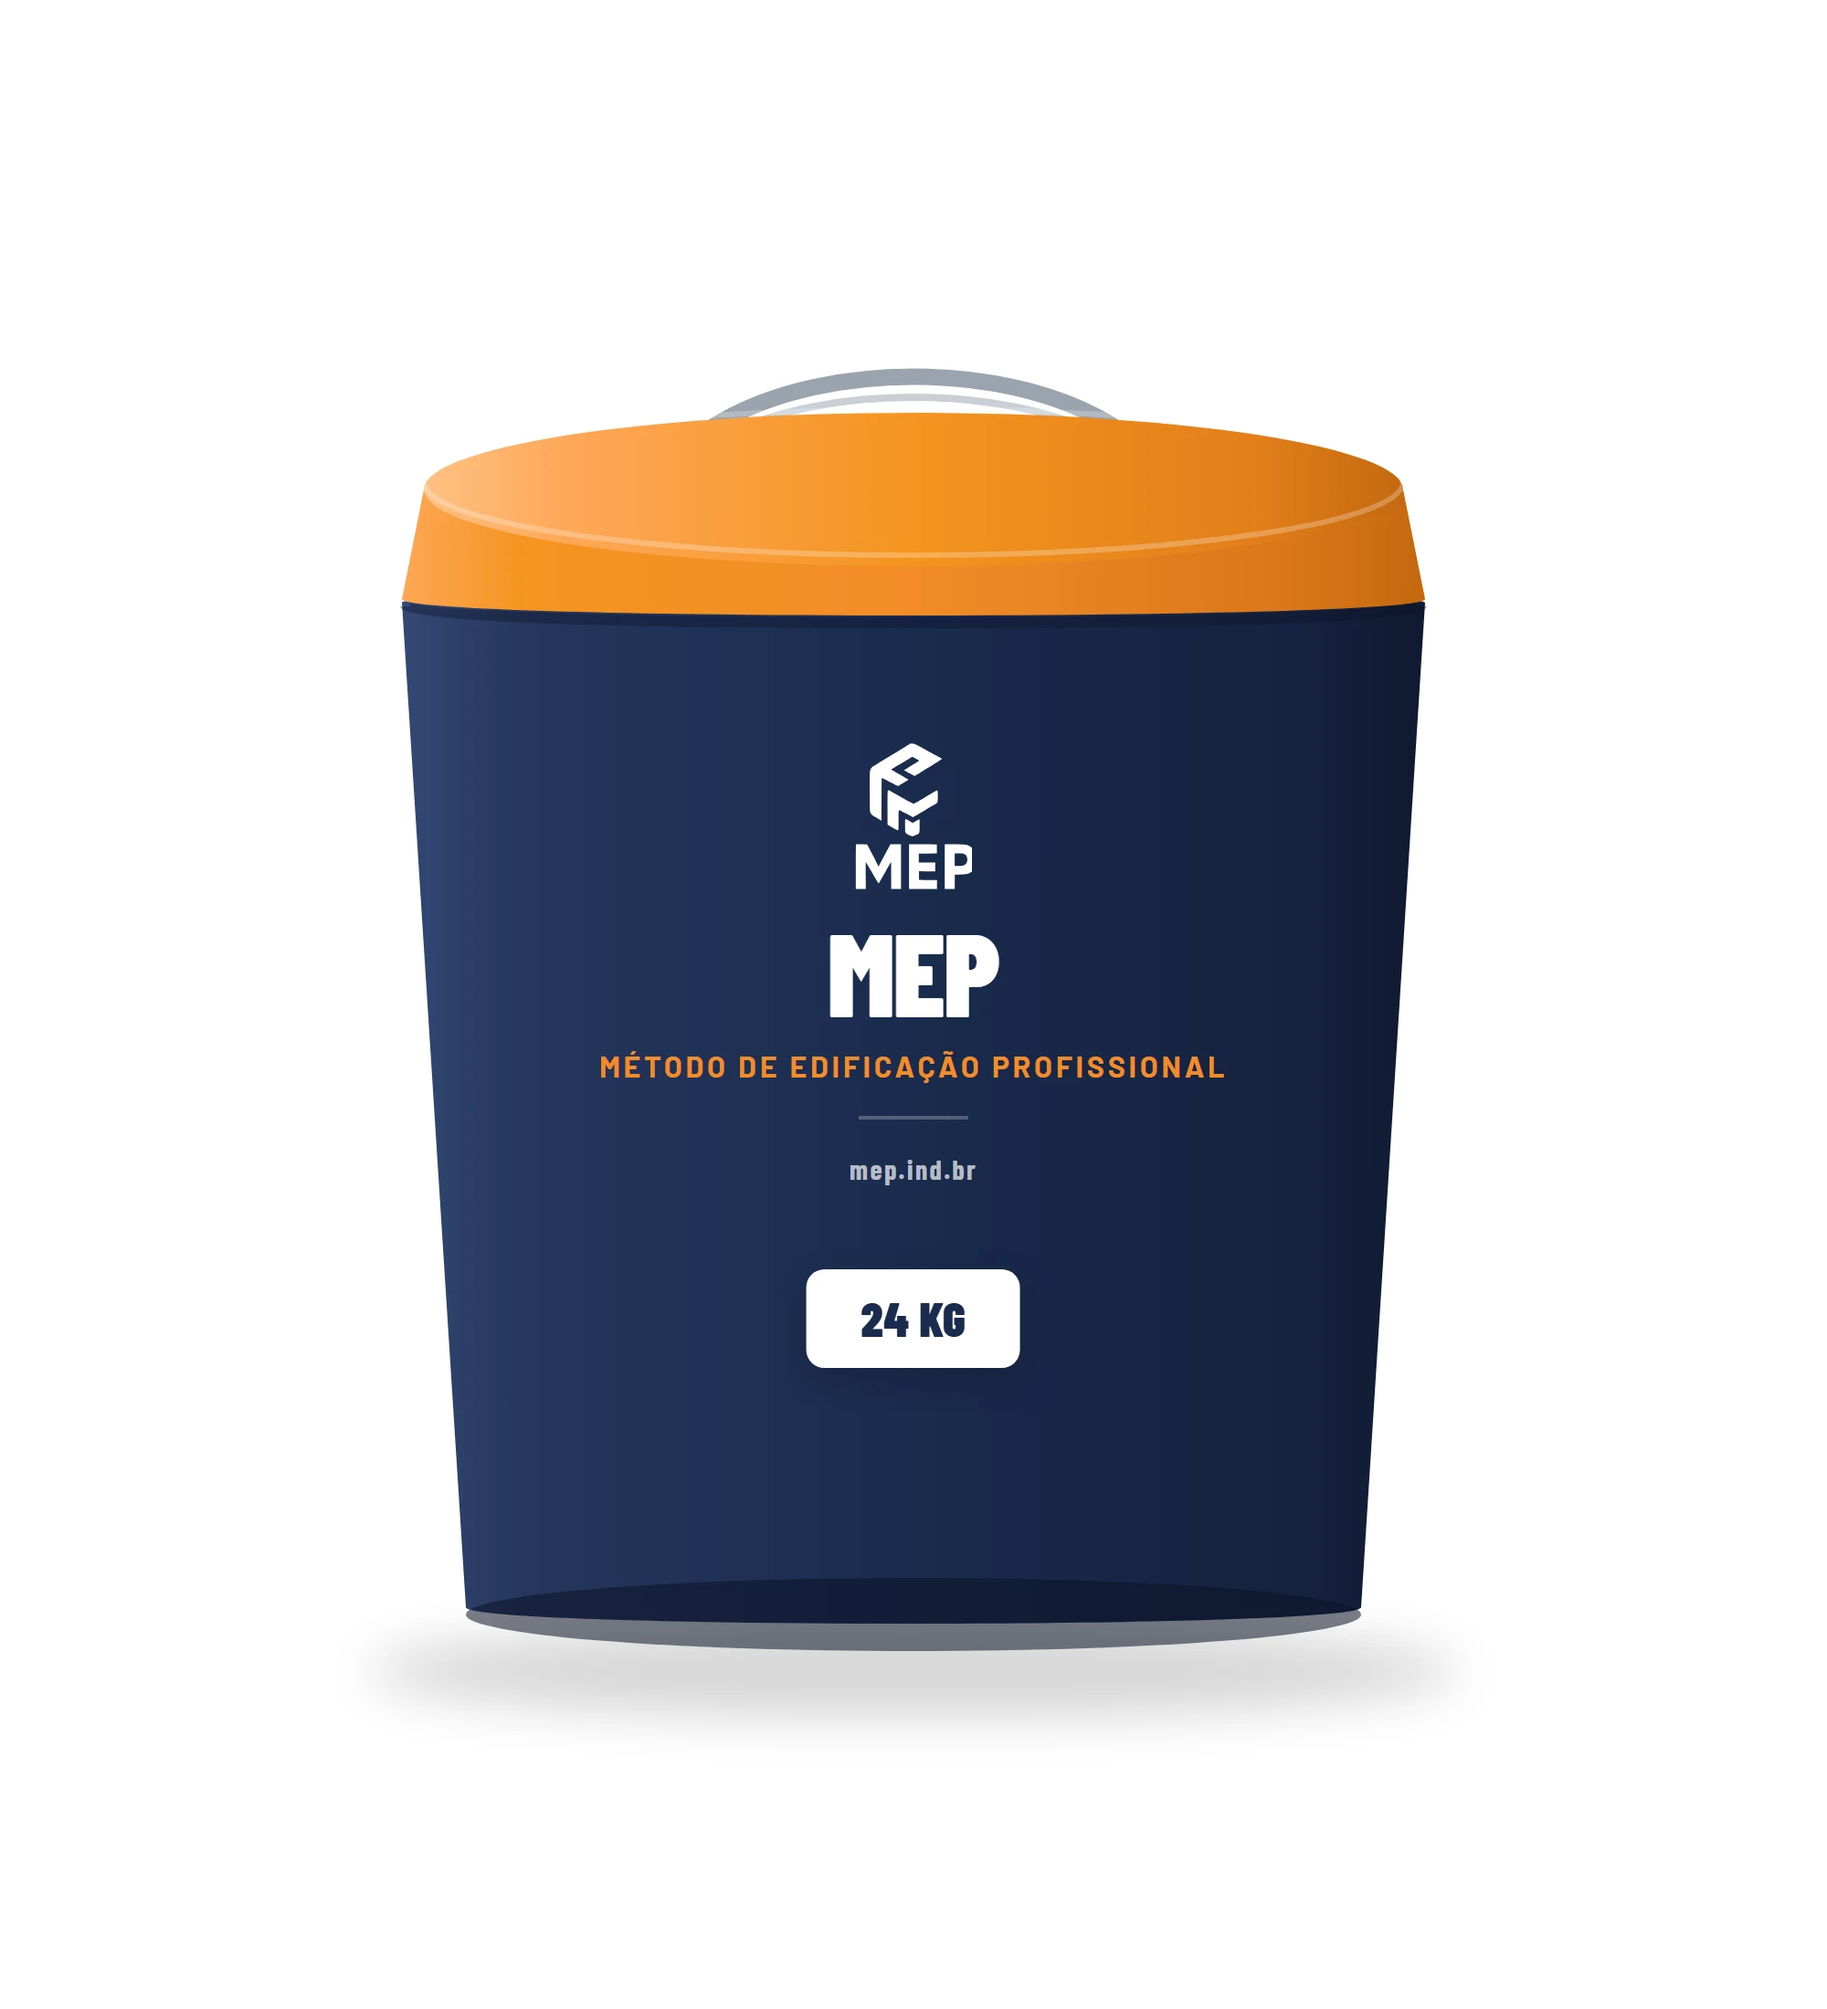
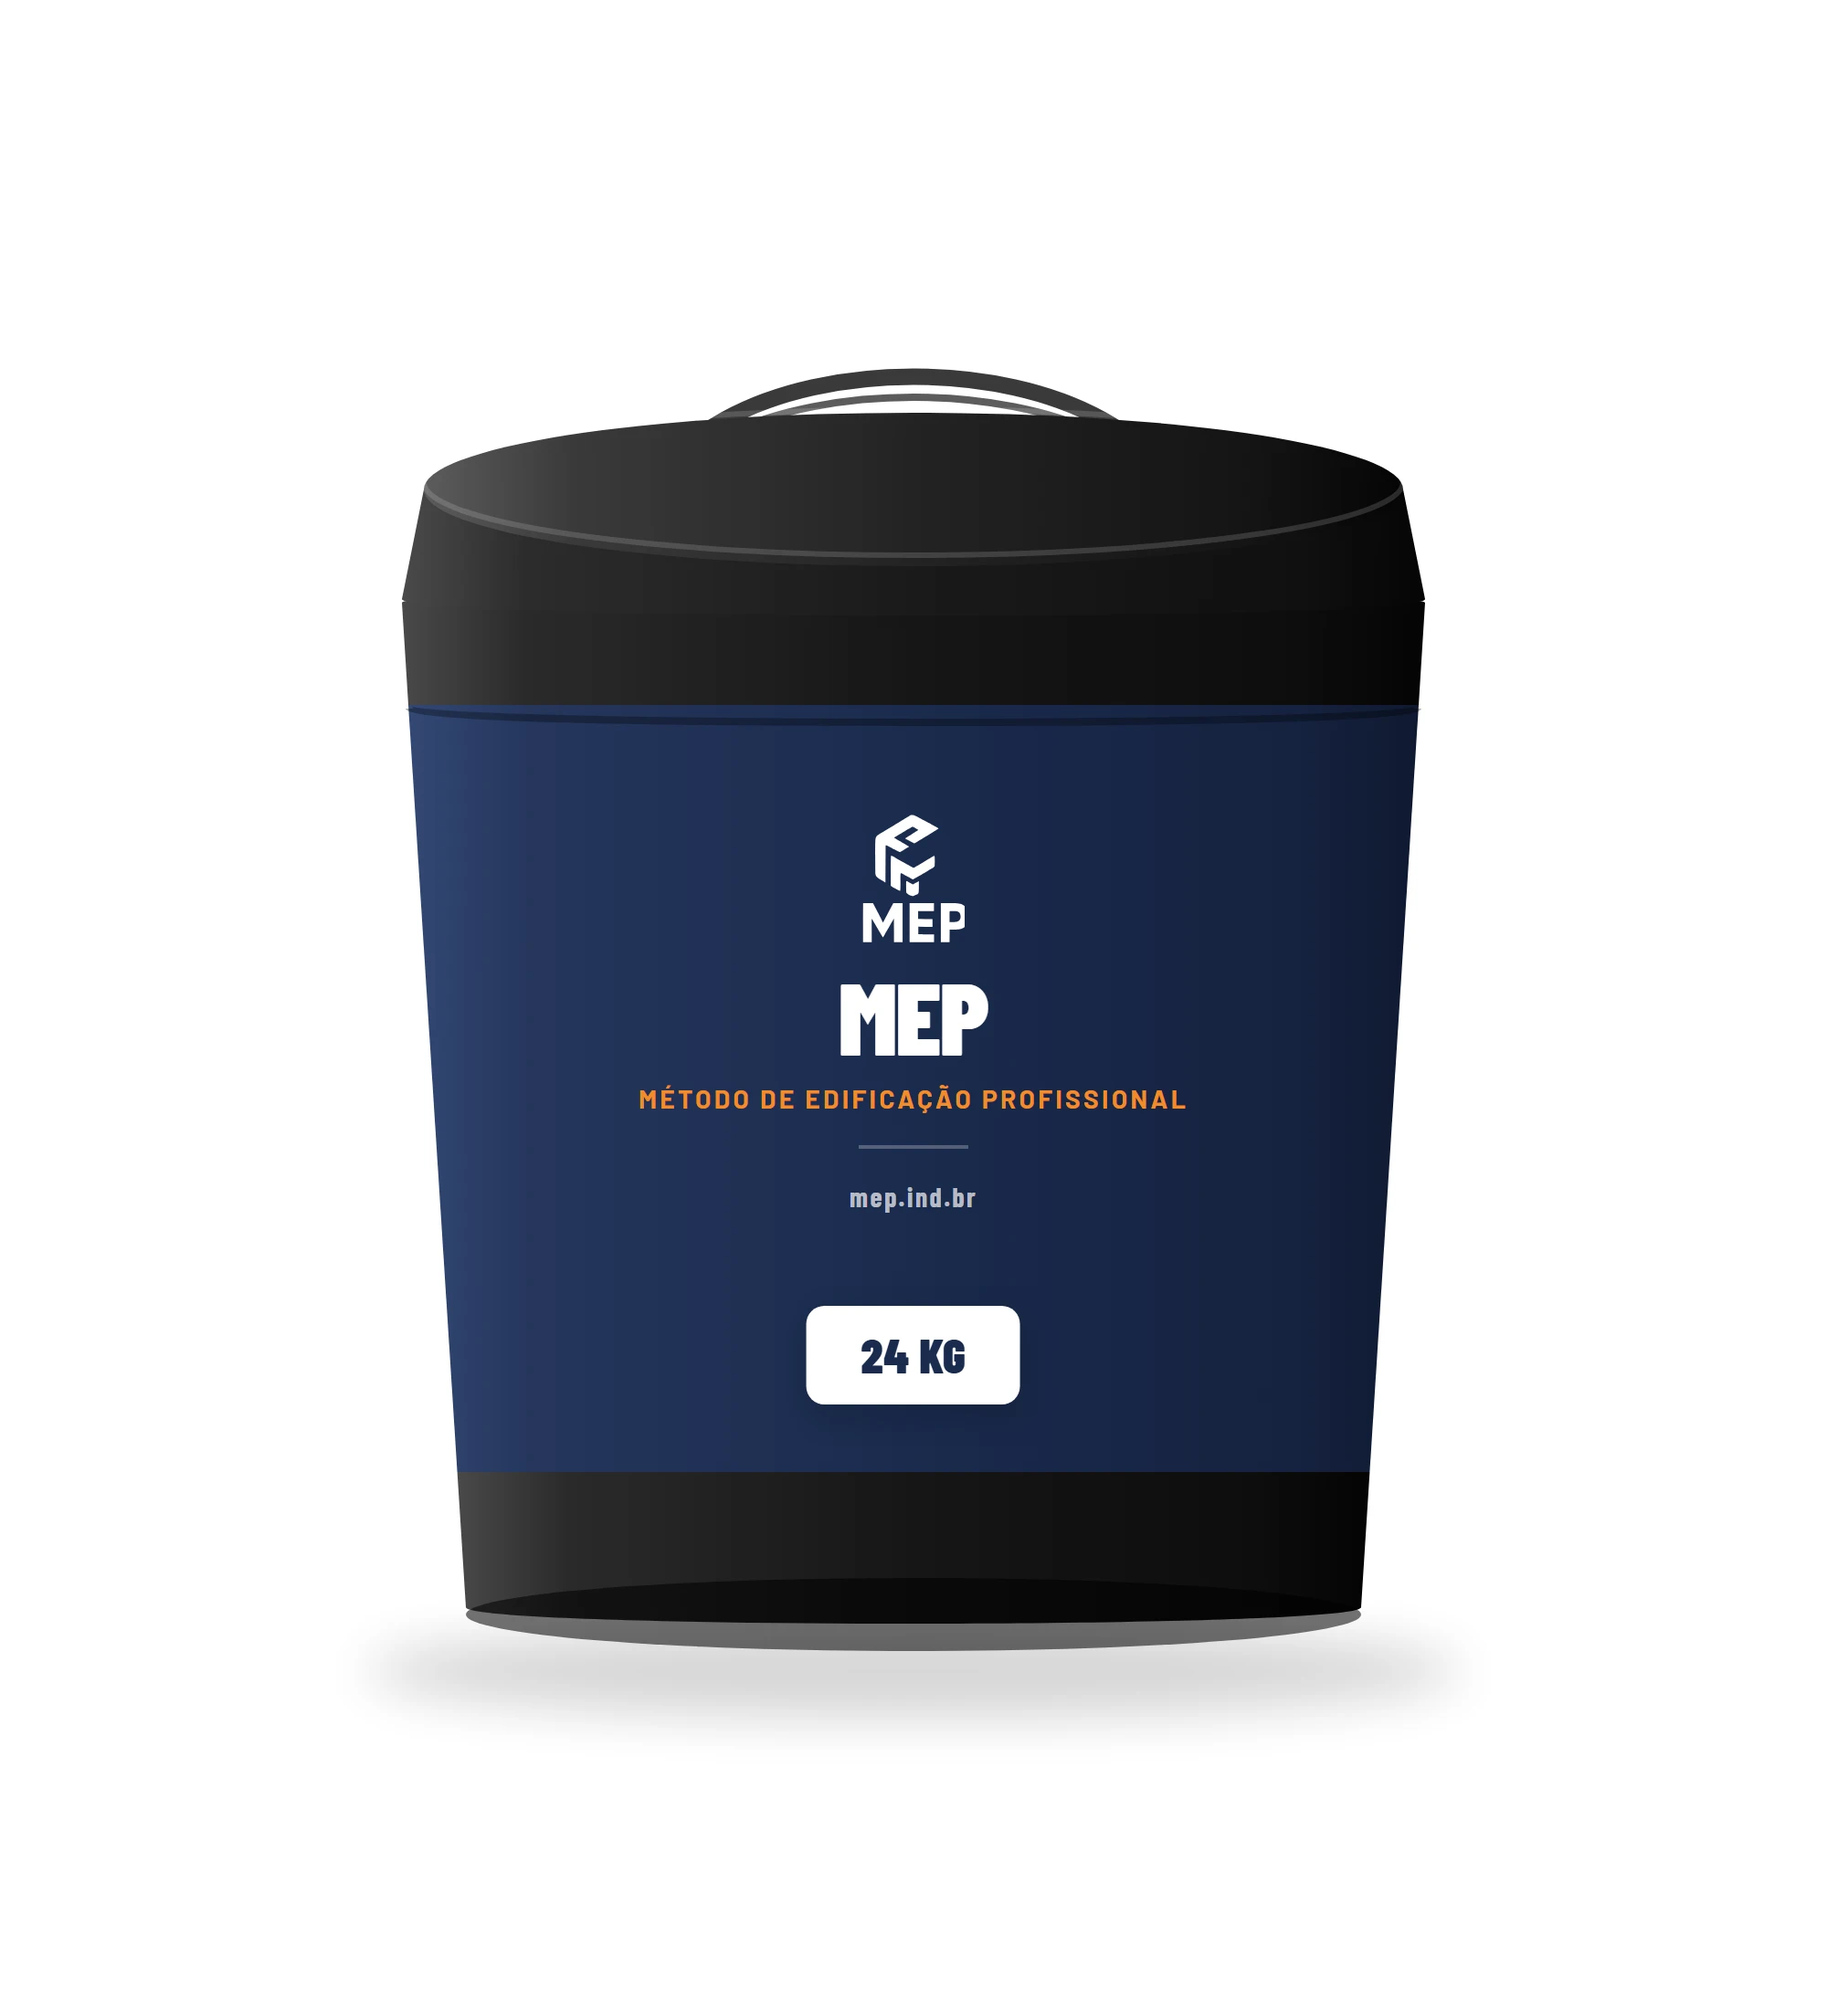
Corrige cor do balde nas fotos de produto: plastico preto, nao azul/laranja
Prova de grafica real do balde 14L mostrou que o balde fisico e todo preto
(tampa e corpo) — a cor navy e laranja e so do rotulo impresso, enrolado
na faixa central. Ajusta o render pra refletir isso com fidelidade.

Changed region(s): [[0.217, 0.1855, 0.806, 0.8345]]

diff --git a/docs/index.html b/docs/index.html
@@ -165,7 +165,7 @@
       "description": "Fabricante de argamassa polimérica pronta para uso e linha de tintas MEP COLOR para construção civil. 4x mais rápida, 40% mais econômica que a argamassa convencional.",
       "url": "https://www.mep.ind.br",
       "logo": "https://www.mep.ind.br/logo-mep.svg",
-      "image": "https://www.mep.ind.br/balde-25kg-v2.png.png?v=2",
+      "image": "https://www.mep.ind.br/balde-25kg-v2.png.png?v=3",
       "telephone": "+55-47-98851-5506",
       "email": "contato@mep.ind.br",
       "address": {
@@ -1055,7 +1055,7 @@ footer { background:var(--azul2); color:rgba(255,255,255,0.55); }
     </div>
     <div class="hero-visual">
       <div class="hero-visual-glow"></div>
-      <img src="barrica-25kg.webp?v=2" alt="Massa MEP — Barrica 24kg">
+      <img src="barrica-25kg.webp?v=3" alt="Massa MEP — Barrica 24kg">
     </div>
   </div>
 </div>
@@ -1097,7 +1097,7 @@ footer { background:var(--azul2); color:rgba(255,255,255,0.55); }
         </div>
         <div class="slb1-img">
           <div class="slb1-glow"></div>
-          <img src="barrica-25kg.webp?v=2" alt="MEP Massas — Barrica 24kg">
+          <img src="barrica-25kg.webp?v=3" alt="MEP Massas — Barrica 24kg">
           <div class="slb1-badge">Rende<strong>25 m²</strong>por barrica</div>
         </div>
       </div>
@@ -1243,7 +1243,7 @@ footer { background:var(--azul2); color:rgba(255,255,255,0.55); }
 
       <div class="produto-card">
         <div class="produto-img-foto">
-          <img src="barrica-25kg.webp?v=2" alt="Barrica MEP 24kg">
+          <img src="barrica-25kg.webp?v=3" alt="Barrica MEP 24kg">
         </div>
         <div class="produto-info">
           <div class="produto-nome">Massa MEP — Barrica 24 kg</div>
@@ -1254,7 +1254,7 @@ footer { background:var(--azul2); color:rgba(255,255,255,0.55); }
 
       <div class="produto-card">
         <div class="produto-img-foto">
-          <img src="barrica 30kilos.png?v=2" alt="Barrica MEP 30kg">
+          <img src="barrica 30kilos.png?v=3" alt="Barrica MEP 30kg">
         </div>
         <div class="produto-info">
           <div class="produto-nome">Massa MEP — Barrica 30 kg</div>
